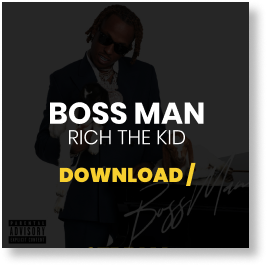
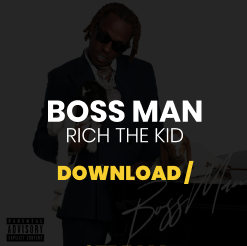
Tweaks for releases + photos

diff --git a/src/components/Releases.css b/src/components/Releases.css
@@ -27,7 +27,8 @@
     background-size: cover;
     background-repeat: no-repeat;
     background-position: center;
-    filter: drop-shadow(2px 2px 3px rgba(0, 0, 0, 0.5));
+    filter: drop-shadow(5px 5px 3px rgba(0, 0, 0, 0.5));
+    transition: all 0.5s;
 }
 
 .album.small {
@@ -35,3 +36,20 @@
     height: 250px;
     margin: 10px;
 }
+
+.album:hover {
+    transform: scale(1.05);
+}
+
+@media (max-width: 1024px) {
+    .album {
+        width: 300px;
+        height: 300px;
+    }
+
+    .album.small {
+        width: 150px;
+        height: 150px;
+        margin: 10px;
+    }
+  }

diff --git a/src/components/Store.css b/src/components/Store.css
@@ -73,6 +73,11 @@
       max-width: 40%;
     }
 
+    .store-image {
+      height: 300px;
+      max-width: 300px;
+  }
+
   }
 
   @media (max-width: 800px) {
